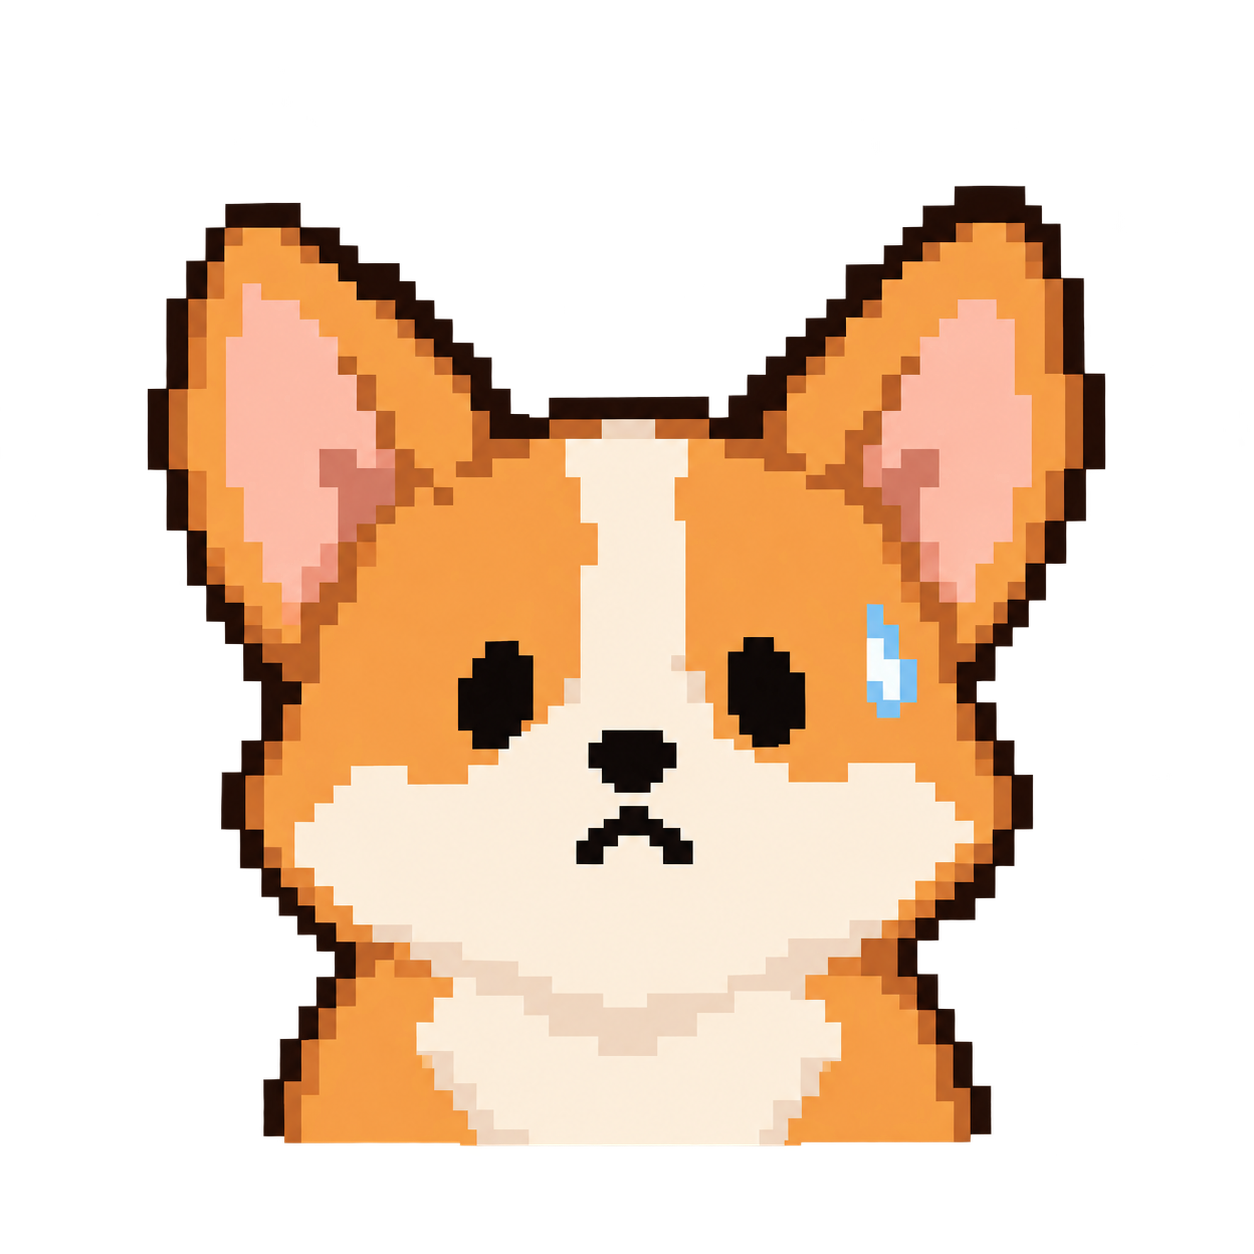
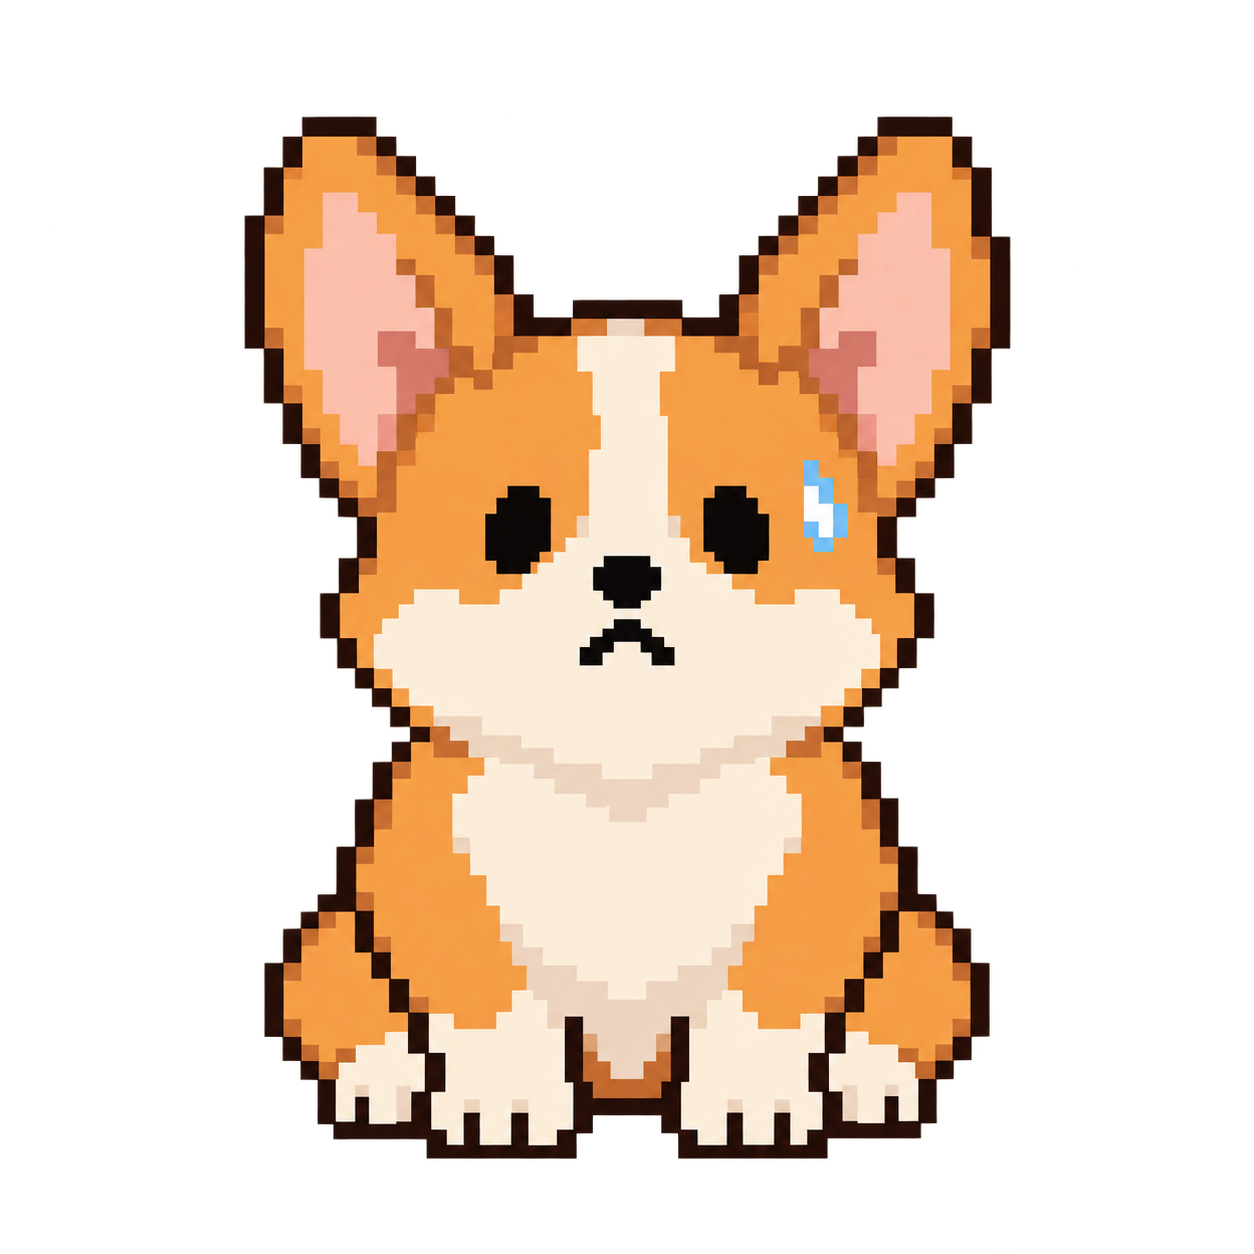
feat(world02): 공통 대사창과 정면 코기 이미지 적용
Plan: 2026-10-14-world02-dialogue-and-corgi-portraits
Phase: P01-visual-update
Task: T01-dialogue-and-corgi

- 월드 2 전용 대사창 이미지와 스타일 제거
- 긴장한·비장한 코기 앉은 정면 전신 이미지 및 정지 연출 적용

diff --git a/src/app/globals.css b/src/app/globals.css
@@ -263,24 +263,8 @@ form { display: flex; gap: 6px; margin-top: 10px; } form input { min-width: 0; f
 .cutscene-footer > span { margin-right: auto; }
 .cutscene-footer .primary-button { min-height: 34px; padding: 6px 10px; font-size: 10px; }
 
-.cutscene-overlay--world02 { gap: 0; padding: 0 4% 3%; }
-.cutscene-overlay--world02 .cutscene-caption-frame {
-  display: flex;
-  align-items: center;
-  width: min(100%, 900px);
-  min-height: clamp(78px, 13vw, 154px);
-  max-height: none;
-  padding: 18px clamp(26px, 4vw, 54px);
-  overflow: visible;
-  border: 0;
-  background: transparent url("/assets/pixel/cutscenes/world-02/world-02-dialogue-frame.png") center / 100% 200% no-repeat;
-  box-shadow: none;
-}
 .cutscene-overlay--world02 .cutscene-footer { justify-content: flex-end; margin-top: 0; }
 .cutscene-overlay--world02 .cutscene-footer > span { display: none; }
-.cutscene-overlay--world02 .dialogue-line { align-items: center; font-size: clamp(14px, 1.8vw, 21px) !important; }
-.cutscene-overlay--world02 .dialogue-line .dialogue-speaker { color: #ffd87a; }
-.cutscene-overlay--world02 .cutscene-narration { line-height: 1.4; }
 
 .item-card {
   position: relative;
@@ -311,10 +295,9 @@ form { display: flex; gap: 6px; margin-top: 10px; } form input { min-width: 0; f
   .cutscene-narration,
   .dialogue-line { grid-template-columns: 62px minmax(0, 1fr); gap: 8px; }
   .cutscene-footer { width: 100%; }
-  .cutscene-overlay--world02 { gap: 0; padding: 0 2% 2%; }
-  .cutscene-overlay--world02 .cutscene-caption-frame { min-height: 72px; padding: 9px 22px; }
+  .cutscene-overlay--world02 .cutscene-caption-frame { max-height: none; overflow: visible; }
   .cutscene-overlay--world02 .cutscene-narration,
-  .cutscene-overlay--world02 .dialogue-line { display: block; font-size: clamp(11px, 2.8vw, 12px) !important; line-height: 1.35; }
+  .cutscene-overlay--world02 .dialogue-line { display: block; font-size: clamp(10px, 2.8vw, 12px) !important; line-height: 1.35; }
   .cutscene-overlay--world02 .cutscene-speaker-label,
   .cutscene-overlay--world02 .dialogue-line .dialogue-speaker { display: inline-block; margin-right: 7px; }
   .item-card { padding: 14px 16px; }

diff --git a/src/game/scenes/World02EntranceScene.ts b/src/game/scenes/World02EntranceScene.ts
@@ -11,7 +11,6 @@ const IMAGE_KEYS = [
   "world-02-entrance-playground",
   "world-02-entrance-corgi-nervous",
   "world-02-entrance-corgi-resolved",
-  "world-02-entrance-dialogue-frame",
 ] as const;
 
 export class World02EntranceScene extends Phaser.Scene {
@@ -116,17 +115,12 @@ export class World02EntranceScene extends Phaser.Scene {
     if (!this.dimmer) {
       this.dimmer = this.add.rectangle(640, 360, 1280, 720, 0x162838, 0.19);
     }
-    this.portrait = this.add.image(640, 406, assetKey).setDisplaySize(570, 570);
+    const compact = window.innerWidth <= 720;
+    const portraitSize = compact ? 360 : 480;
+    this.portrait = this.add.image(640, compact ? 225 : 310, assetKey)
+      .setDisplaySize(portraitSize, portraitSize);
     this.portrait.setAlpha(0);
     this.tweens.add({ targets: this.portrait, alpha: 1, duration: 220 });
-    this.tweens.add({
-      targets: this.portrait,
-      y: 403,
-      duration: 500,
-      ease: "Sine.easeInOut",
-      yoyo: true,
-      repeat: -1,
-    });
   }
 
   private skip(): void {

diff --git a/.memory/phases/2026-10-14-world02-dialogue-and-corgi-portraits/P01-visual-update/T01-dialogue-and-corgi.md b/.memory/phases/2026-10-14-world02-dialogue-and-corgi-portraits/P01-visual-update/T01-dialogue-and-corgi.md
@@ -1,0 +1,76 @@
+# Task: T01 공통 대사창과 정면 정지 코기
+
+## Status: done
+
+## Goal
+
+월드 2 진입 컷신이 첫 스토리와 같은 캡션 프레임을 사용하고, 긴장한·비장한 코기의 머리·몸통·발이 정면으로 앉은 정지 상태로 보이게 한다.
+
+## Decision Summary
+
+- 월드 2 전용 대사창 PNG를 제거하고 `CutsceneOverlay` 공통 프레임을 재사용한다.
+- 두 코기 얼굴 이미지를 기존 이미지 키·URL을 유지한 채 정면 전신 PNG로 교체한다.
+- 기존 대본·비트 시간·저장 ID·스테이지 전환은 변경하지 않는다.
+
+## Implementation
+
+### I01. 대사창 통일
+
+- `src/components/game/CutsceneOverlay.tsx` :: `CutsceneOverlay` — `world-02-intro` 식별 클래스는 모바일의 긴 문장과 하단 안내 배치에만 사용하고 공통 `.cutscene-caption-frame`을 그대로 렌더링한다; read-only.
+- `src/app/globals.css` :: `.cutscene-overlay--world02`와 모바일 분기 — 전용 프레임 배경·테두리·패딩 규칙을 제거한다. 모바일에서 긴 문장이 잘리지 않도록 `max-height: none`, 작은 글자와 화자 인라인 배치, 기존 하단 안내 숨김만 남긴다; modify.
+- `src/game/assets/assetManifest.json` :: `world-02-entrance-dialogue-frame` — 사용하지 않는 이미지 항목을 삭제한다; modify.
+- `public/assets/pixel/cutscenes/world-02/world-02-dialogue-frame.png` — 사용하지 않는 전용 PNG를 삭제한다; delete.
+- `src/game/scenes/World02EntranceScene.ts` :: `IMAGE_KEYS` — 전용 대사창 키를 필수 이미지 목록에서 제거한다; modify.
+
+### I02. 코기 정면 정지 이미지
+
+- `public/assets/pixel/cutscenes/world-02/world-02-corgi-nervous.png` — 기존 긴장한 얼굴·땀 표정을 참고하여 몸통과 앞발·뒷발이 보이는 투명 배경 정면의 앉은 PNG로 교체한다; modify.
+- `public/assets/pixel/cutscenes/world-02/world-02-corgi-resolved.png` — 기존 비장한 얼굴 표정을 참고하여 같은 자세·크기의 투명 배경 정면의 앉은 PNG로 교체한다; modify.
+- `src/game/scenes/World02EntranceScene.ts` :: `showPortrait` — 두 이미지를 같은 위치와 크기로 표시하고 무한 반복 yoyo 상하 이동 tween을 삭제한다. 화면 폭 720px 이하에서는 대사창과 겹치지 않도록 두 이미지 모두 360×360, y=225로 표시하고 그보다 큰 화면에서는 480×480, y=310으로 표시한다. 진입 alpha 페이드는 유지한다; modify.
+
+#### Data & Schema Fields
+
+- `IMAGE_KEYS`: `readonly` 문자열 튜플. 배경·긴장·비장 세 키만 남긴다.
+- `CutsceneOverlayState`: 필드 변경 없음. `cutsceneId`, `beat`, `index`, `totalBeats` 등 기존 이벤트 계약 유지.
+- 두 PNG: RGBA 투명 배경, 정면으로 앉은 정지 자세, 각각 한 마리만 담는다. 기존 `world-02-entrance-corgi-nervous`와 `world-02-entrance-corgi-resolved` manifest 키·URL 유지.
+
+#### Execution Flow / Logic
+
+1. 컷신 시작 시 기존 배경과 비트 이벤트를 유지한다.
+2. 비트 2에서 긴장 이미지, 비트 4에서 비장 이미지를 보여준다.
+3. 공통 React 캡션 프레임이 모든 6비트 대사를 표시한다.
+4. 이미지 누락과 씬 종료 정리는 기존 경로를 따른다. 사용하지 않는 프레임 키는 검사하지 않는다.
+
+## Acceptance Criteria
+
+- [ ] 월드 2에서 첫 스토리와 동일한 캡션 프레임이 보이고 전용 대사창 PNG는 더 이상 참조되지 않는다.
+- [ ] 긴장한·비장한 코기는 모두 몸통과 발이 보이는 정면의 앉은 정지 이미지로 나타난다.
+- [ ] 6문장 진행·건너뛰기·월드 2 스테이지 진입은 유지된다.
+
+## Validation
+
+- `npx.cmd eslint src/components/game/CutsceneOverlay.tsx src/game/scenes/World02EntranceScene.ts` — 관련 코드 린트 통과.
+- `npx.cmd tsc --noEmit` — 타입 검사 통과.
+- `npm.cmd run build` — Next.js 빌드 통과.
+- `npm.cmd run test:progression` — 월드 2 진입 경로를 포함한 진행 테스트 3개 통과.
+- `rg -n "world-02-entrance-dialogue-frame|world-02-dialogue-frame" src public --glob '!*.png'` — 검색 결과 없음.
+- 두 PNG를 육안으로 확인하고 투명 배경·전신·정면·앉은 정지 자세인지 검토한다.
+
+## Commit Message
+
+```text
+feat(world02): 공통 대사창과 정면 코기 이미지 적용
+
+Plan: 2026-10-14-world02-dialogue-and-corgi-portraits
+Phase: P01-visual-update
+Task: T01-dialogue-and-corgi
+
+- 월드 2 전용 대사창 이미지와 스타일 제거
+- 긴장한·비장한 코기 앉은 정면 전신 이미지 및 정지 연출 적용
+```
+
+## Progress
+
+- [x] 구현 완료
+- [x] 검증 통과
+- commit: 이 Task와 소스 변경을 함께 커밋함

diff --git a/.memory/decisions/2026-10-14-world02-dialogue-and-corgi-portraits.md b/.memory/decisions/2026-10-14-world02-dialogue-and-corgi-portraits.md
@@ -1,0 +1,16 @@
+# Decisions: 월드 2 대사창 통일과 코기 정면 이미지
+
+- Date: 2026-10-14
+- Status: Confirmed
+
+## D01. 대사창
+- **Chosen**: 월드 2 전용 PNG 대사창을 제거하고 첫 스토리 컷신에서 쓰는 공통 `CutsceneOverlay` 캡션 프레임을 사용한다.
+- **Rationale**: 사용자가 기존 첫 스토리 대사창 재사용을 명시했다. 실제 구현은 `CutsceneOverlay`의 `.cutscene-caption-frame`이며 월드 2 전용 CSS와 이미지 자산만 다르다.
+
+## D02. 코기 정면 이미지
+- **Chosen**: 긴장한 코기와 비장한 코기의 기존 얼굴 이미지 두 장을 각각 머리·몸통·발이 보이는 정면의 앉은 정지 자세로 교체한다. 기존 표정과 픽셀 아트 색감은 유지한다.
+- **Rationale**: 사용자가 최종적으로 '그냥 앉은 자세로 해줘. 그게 더 귀엽게 생겼다'고 확정했다. 현재 이미지는 얼굴 아래가 잘렸고 `World02EntranceScene.showPortrait()`에 반복 상하 이동이 있다.
+
+## D03. 범위와 동작
+- **Chosen**: 기존 6문장 대본, 비트 타이밍, 이미지 키, 저장 ID와 월드 2 진입 경로는 유지한다. 전용 대사창의 manifest 항목과 파일을 삭제하고 정면 이미지를 정지 표시한다.
+- **Rationale**: 새 요청은 시각 표현 변경이다. 기존 스토리 진행은 이미 완료 및 검증되었다.

diff --git a/.memory/plans/2026-10-14-world02-dialogue-and-corgi-portraits.md b/.memory/plans/2026-10-14-world02-dialogue-and-corgi-portraits.md
@@ -1,0 +1,23 @@
+# Plan: 월드 2 대사창 통일과 코기 정면 이미지
+
+## Goal
+
+월드 2 진입 컷신에서 첫 스토리의 공통 대사창을 사용하고, 긴장한·비장한 코기를 몸통과 발이 보이는 정면의 앉은 정지 자세로 보여준다.
+
+- [확정 결정](../decisions/2026-10-14-world02-dialogue-and-corgi-portraits.md)
+
+## Phases
+
+| Phase | Status | Summary | Blueprint |
+| :--- | :--- | :--- | :--- |
+| P01 | `in_progress` | 대사창 통일, 코기 자산 교체, 정지 표시 및 검증 | [P01](../phases/2026-10-14-world02-dialogue-and-corgi-portraits/P01-visual-update/phase.md) |
+
+## Execution Order
+
+1. T01에서 월드 2 전용 대사창 스타일·이미지 로딩을 제거하고 공통 프레임을 재사용한다.
+2. 같은 T01에서 두 코기 PNG를 앉은 정면 전신 이미지로 교체하고 씬의 반복 상하 움직임을 없앤다.
+3. 린트, 타입, 빌드와 이미지 투명도·화면 구성을 검증한다.
+
+## Progress
+
+- done: 0/1 (active: T01)
